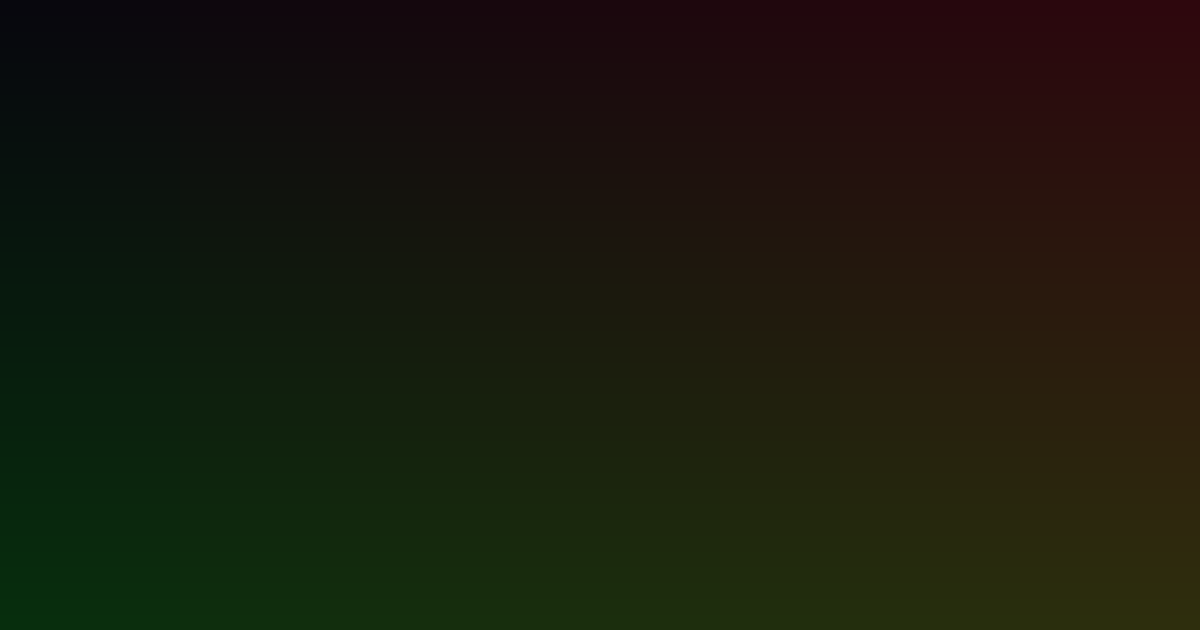
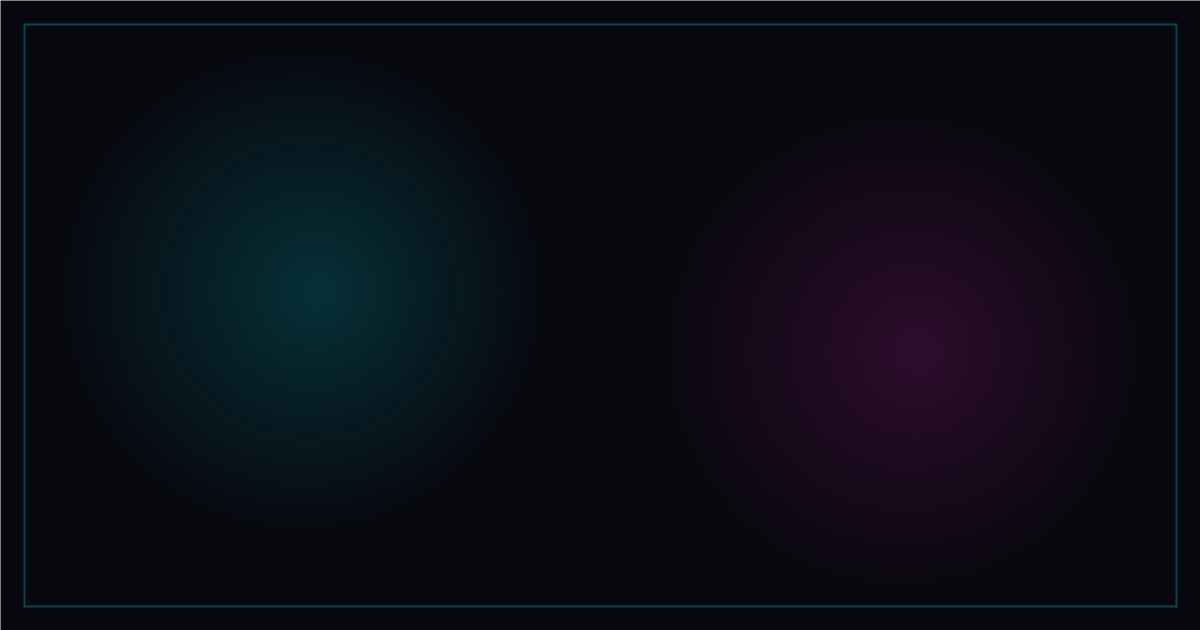
refactor: update birthday invitation age from 14th to 13th and add application components and utilities

diff --git a/README.md b/README.md
@@ -1,6 +1,6 @@
-# ⚡ Angad's 14th Birthday Bash — VIP Invitation Web App
+# ⚡ Angad's 13th Birthday Bash — VIP Invitation Web App
 
-A production-grade, mobile-only digital birthday invitation for **Angad Khandelwal's 14th Birthday** on **11 November 2026** (Asia/Kolkata).
+A production-grade, mobile-only digital birthday invitation for **Angad Khandelwal's 13th Birthday** on **11 November 2026** (Asia/Kolkata).
 
 ---
 
@@ -54,7 +54,7 @@ Open in Chrome → DevTools → Toggle Device Mode → iPhone 14 (390px) or any 
 
 | Detail | Configured Value | Status |
 | :--- | :--- | :--- |
-| **Guest of Honour** | Angad Khandelwal (Turning 14) | ✅ Configured |
+| **Guest of Honour** | Angad Khandelwal (Turning 13) | ✅ Configured |
 | **Date & Timezone** | 11 November 2026 (Asia/Kolkata +05:30) | ✅ Configured |
 | **Party Hours** | 6:00 PM – 9:00 PM (`18:00` to `21:00`) | ✅ Configured |
 | **Host Contact** | Akshat (Angad's elder brother) | ✅ Configured |
